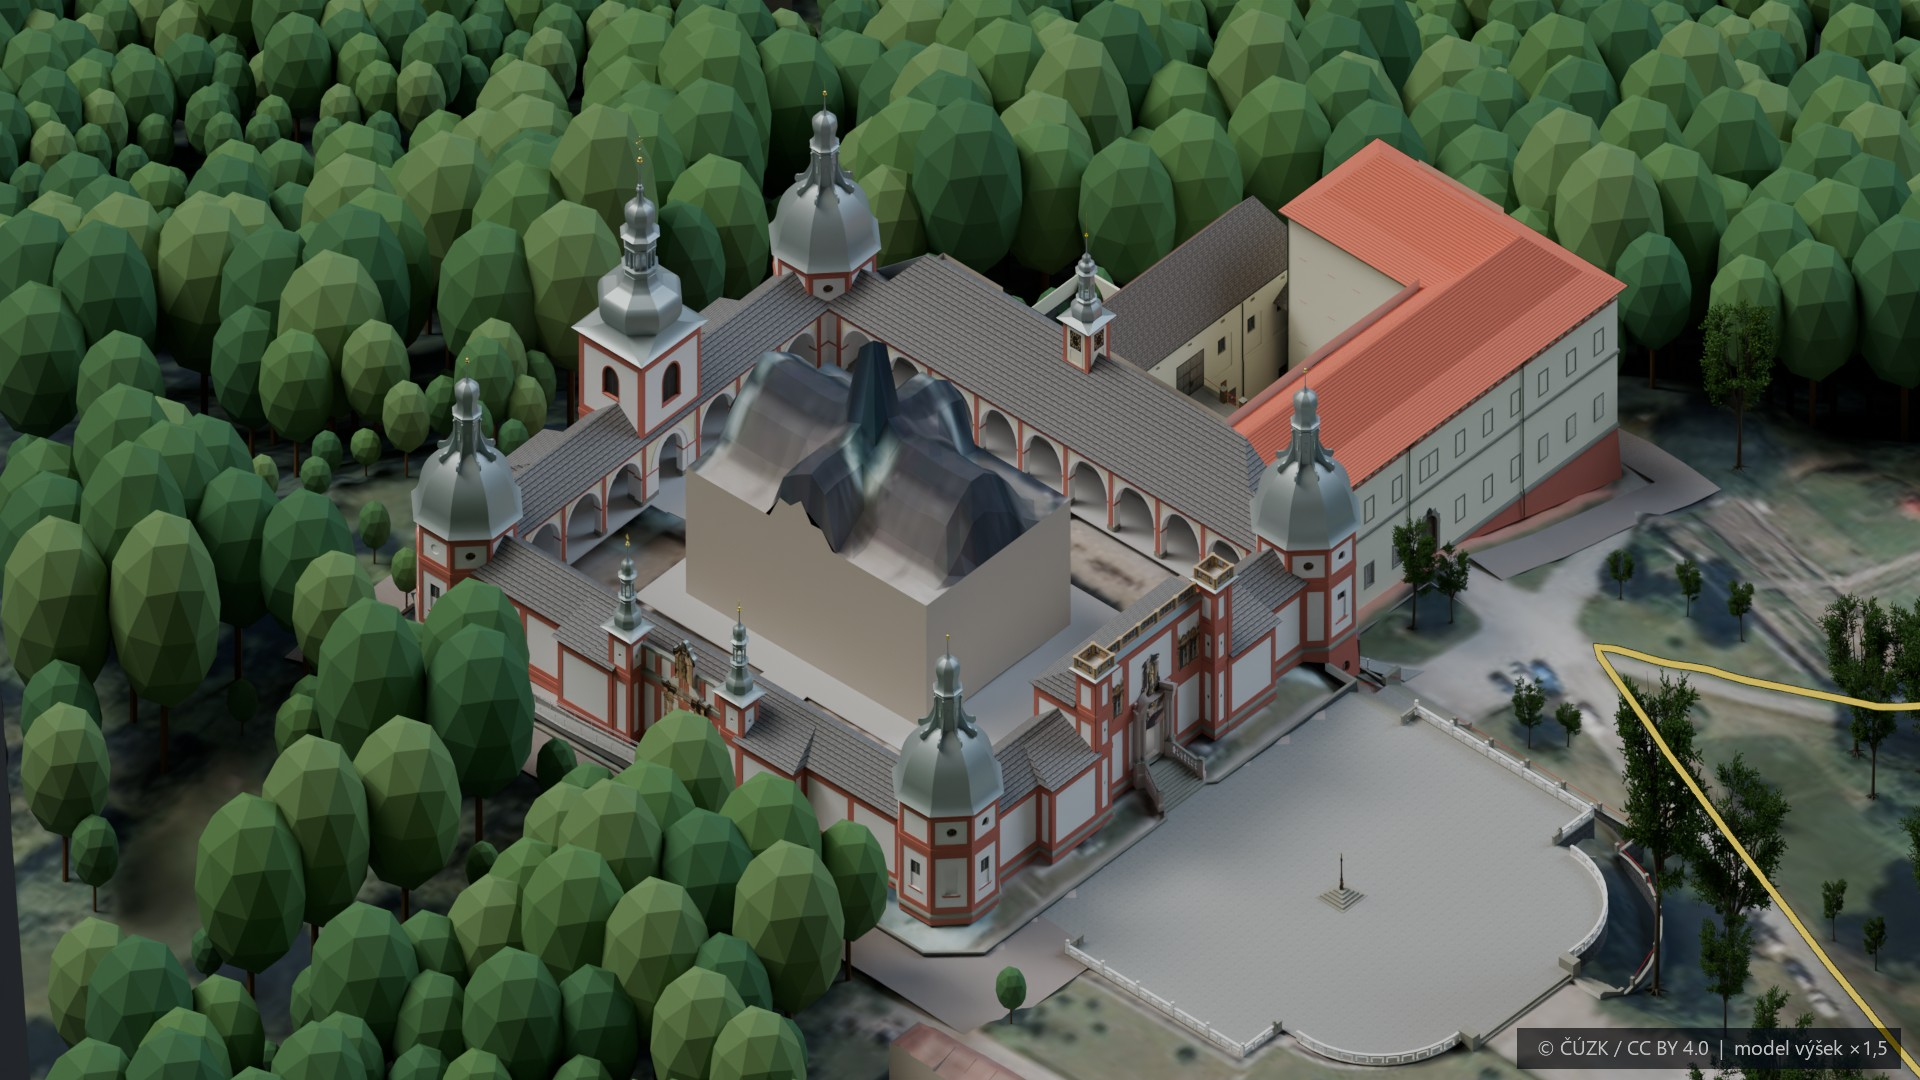
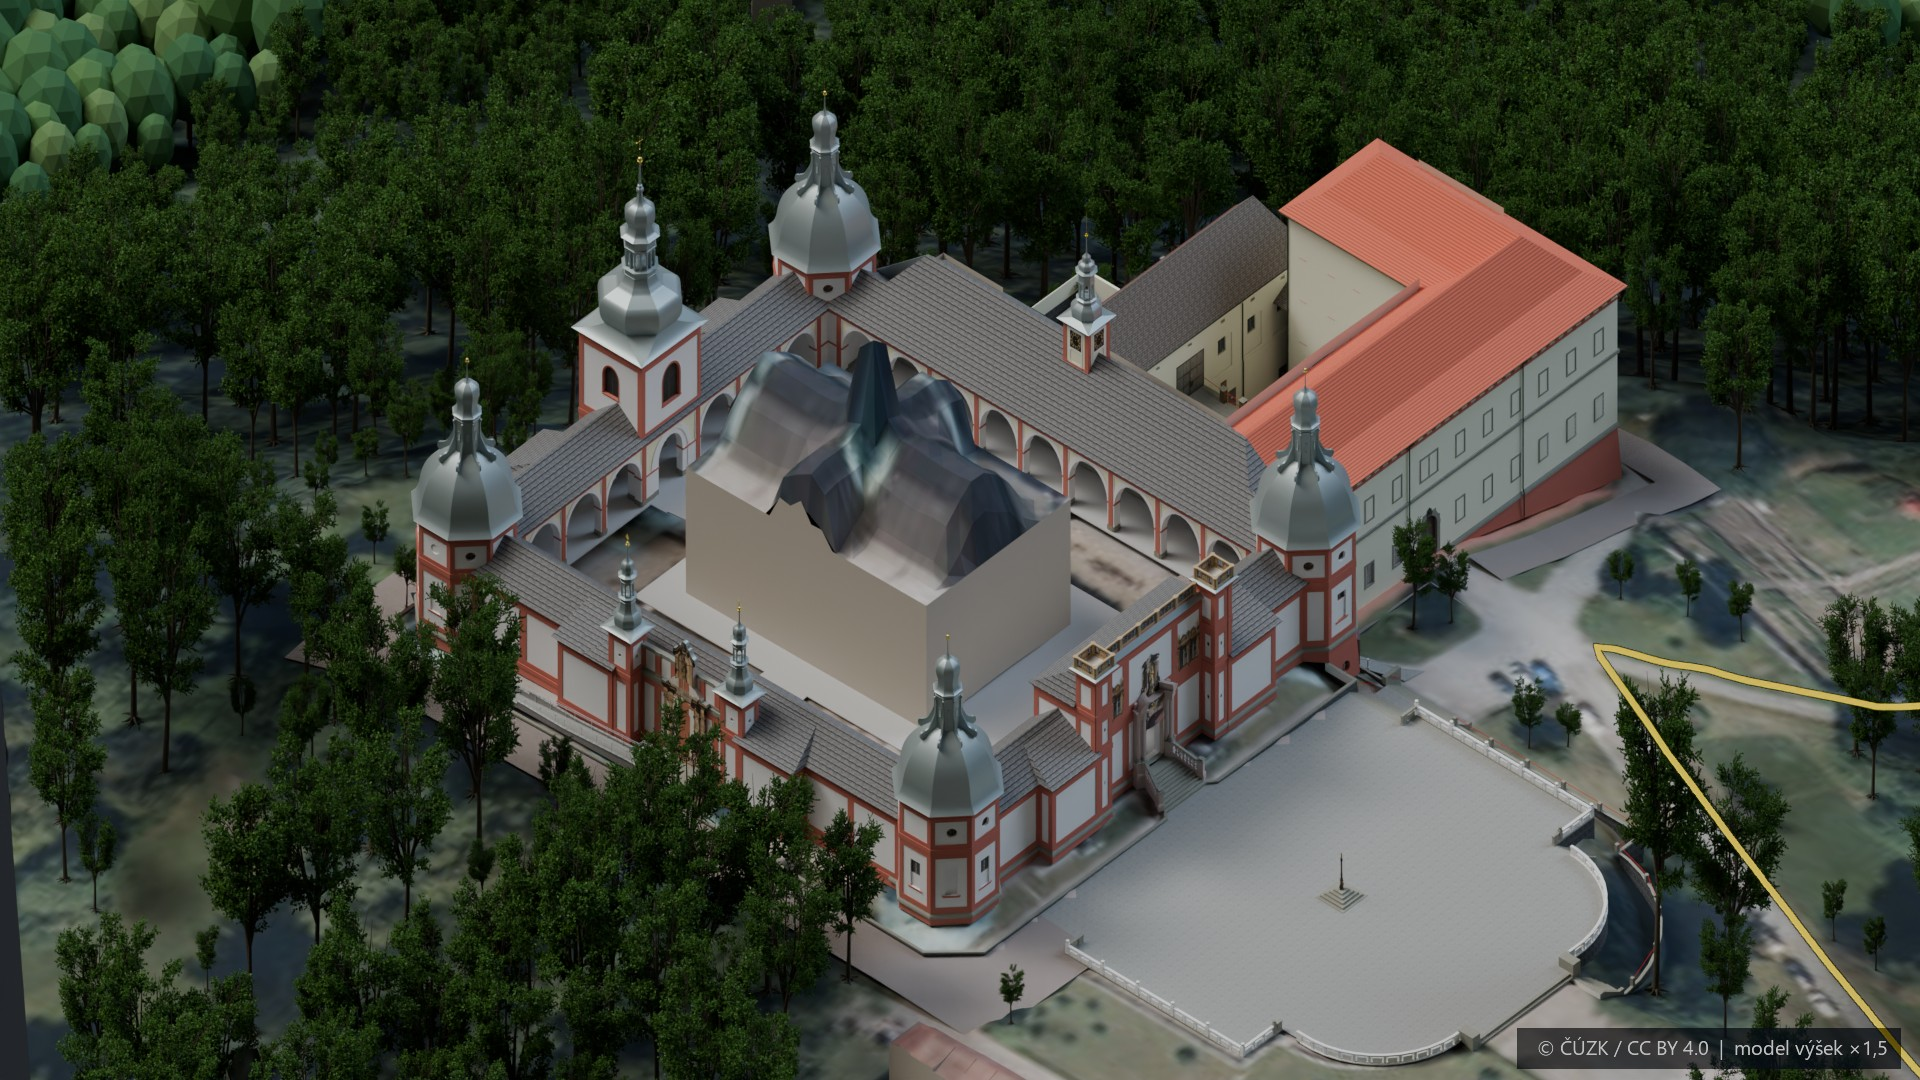
Refresh Svata Hora preview with detailed surrounding trees

diff --git a/DT-grafika-TV/3D/nahledy-mobil/README.md b/DT-grafika-TV/3D/nahledy-mobil/README.md
@@ -4,6 +4,8 @@ Výběr snímků verze 07. JPG v rozlišení 1920 × 1080 pro snadné otevření
 
 ## 1. Svatá Hora a start
 
+Aktualizovaný pohled po dokončení dalších 804 detailních stromů kolem areálu, v okolí do 100 m. Olistění odpovídá červnu 2027.
+
 ![Svatá Hora a start](01-svata-hora.jpg)
 
 [Otevřít snímek samostatně](01-svata-hora.jpg)
